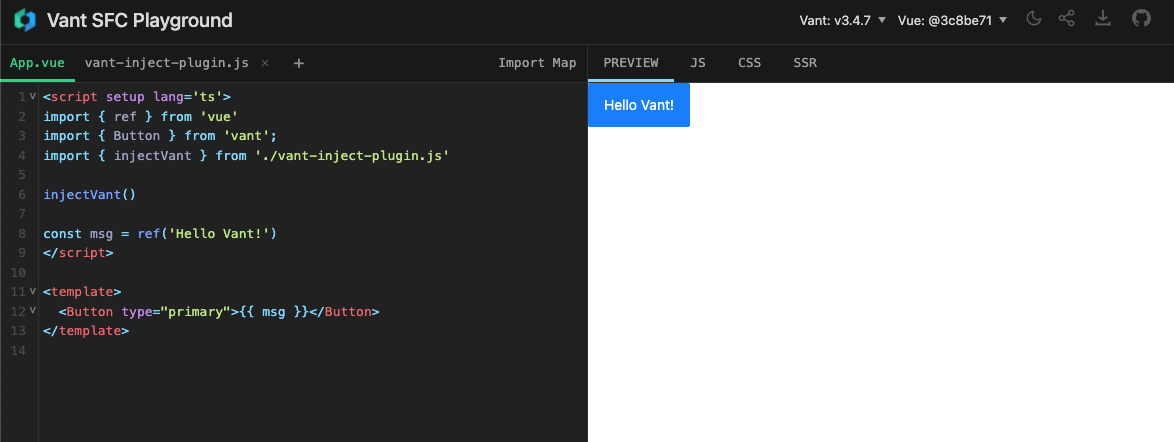
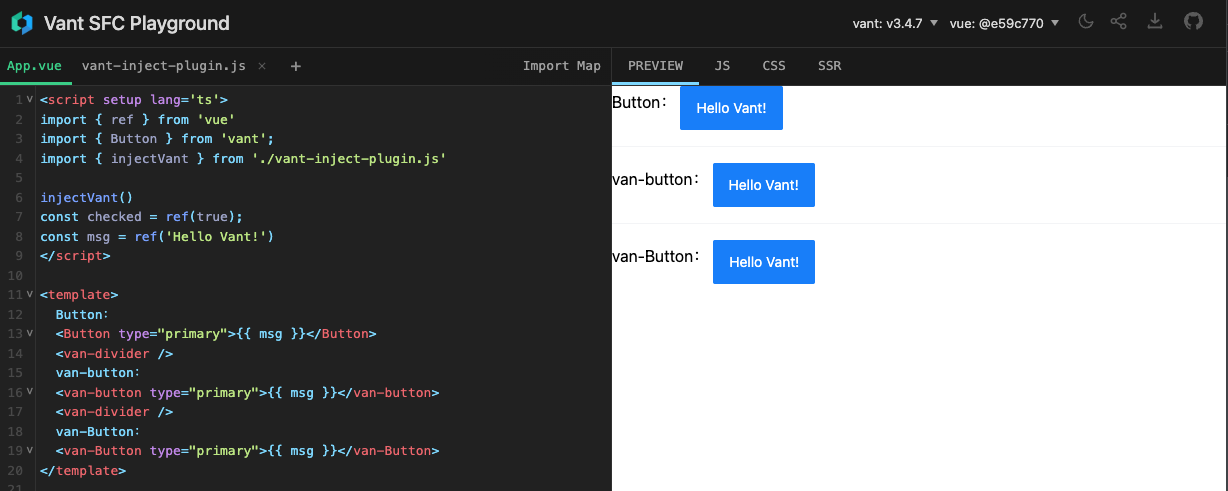
chore: update welcome code and  main-pic.png

diff --git a/src/config.ts b/src/config.ts
@@ -37,15 +37,22 @@ export const welcomeCode = `\
 <script setup lang='ts'>
 import { ref } from 'vue'
 import { Button } from 'vant';
-import { injectVant } from './${vantInjectPlugin}'
+import { injectVant } from './vant-inject-plugin.js'
 
 injectVant()
-
+const checked = ref(true);
 const msg = ref('Hello Vant!')
 </script>
 
 <template>
+  Button：
   <Button type="primary">{{ msg }}</Button>
+  <van-divider />
+  van-button：
+  <van-button type="primary">{{ msg }}</van-button>
+  <van-divider />
+  van-Button：
+  <van-Button type="primary">{{ msg }}</van-Button>
 </template>
 `
 
